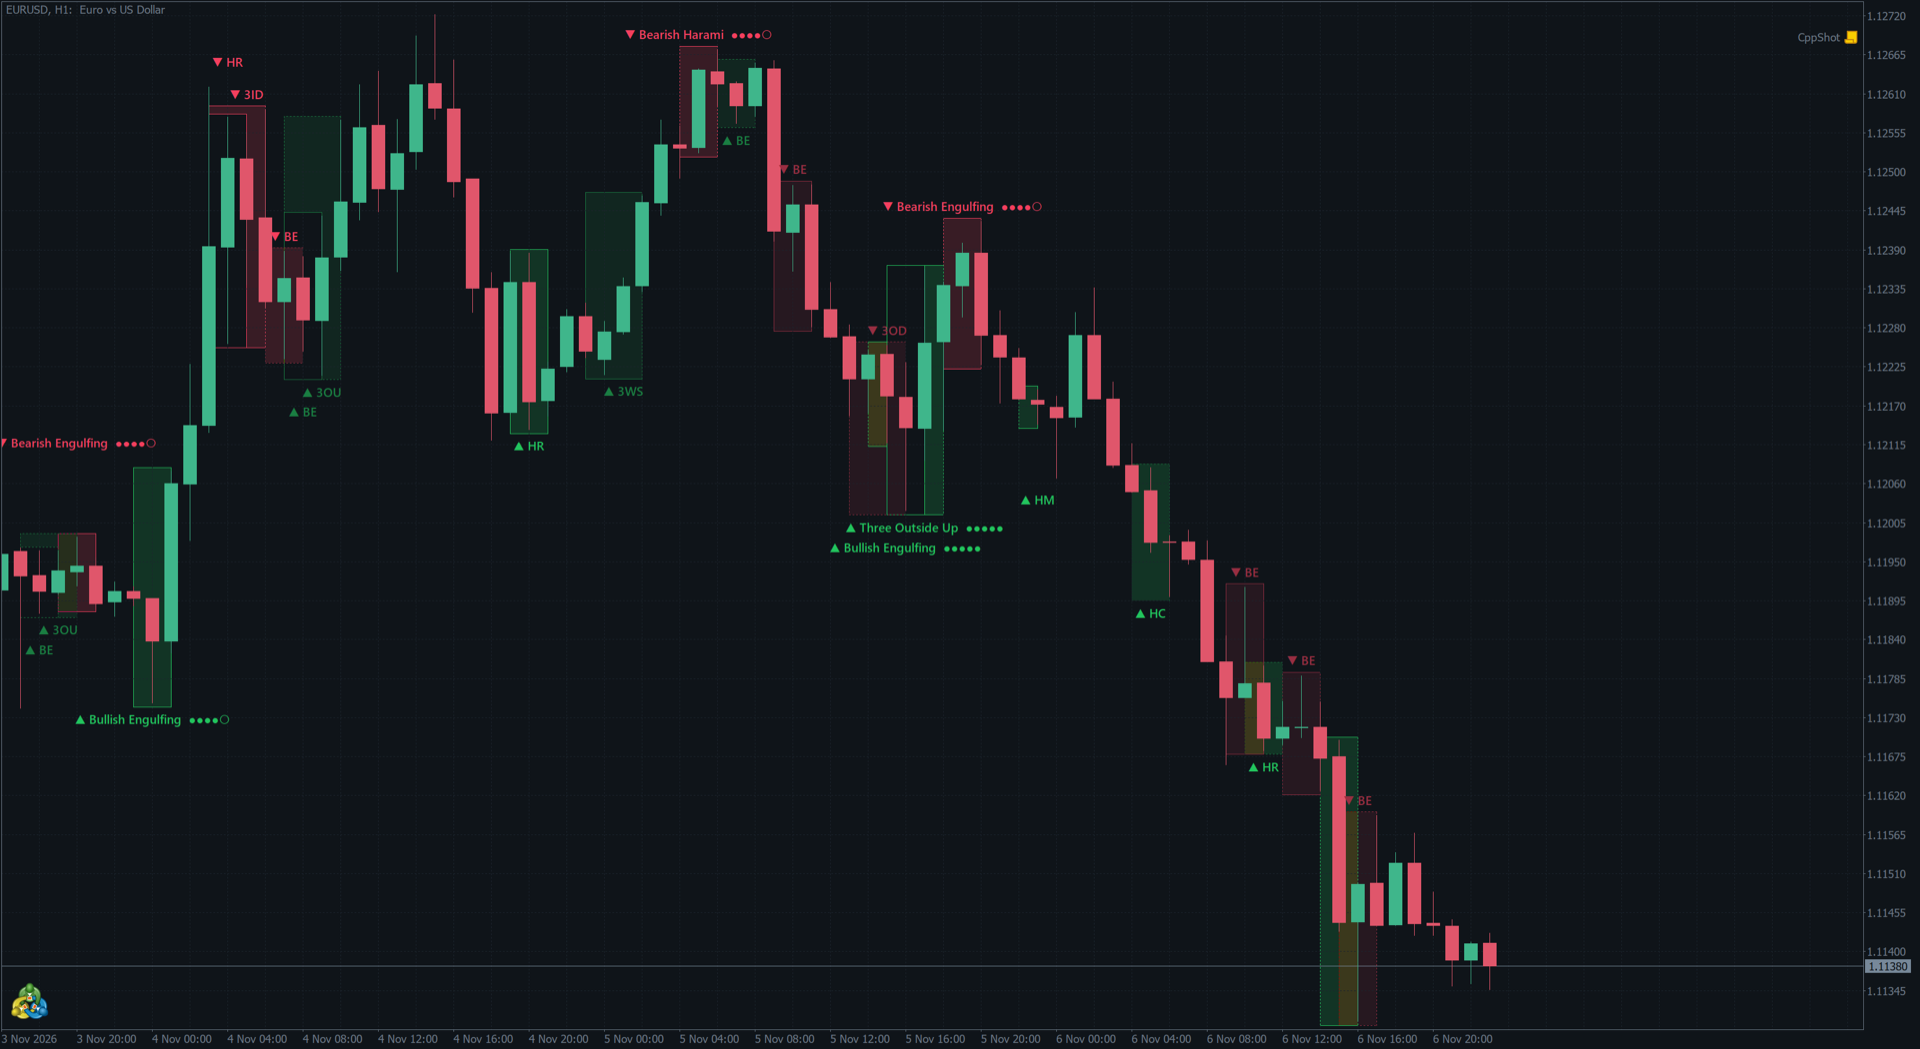
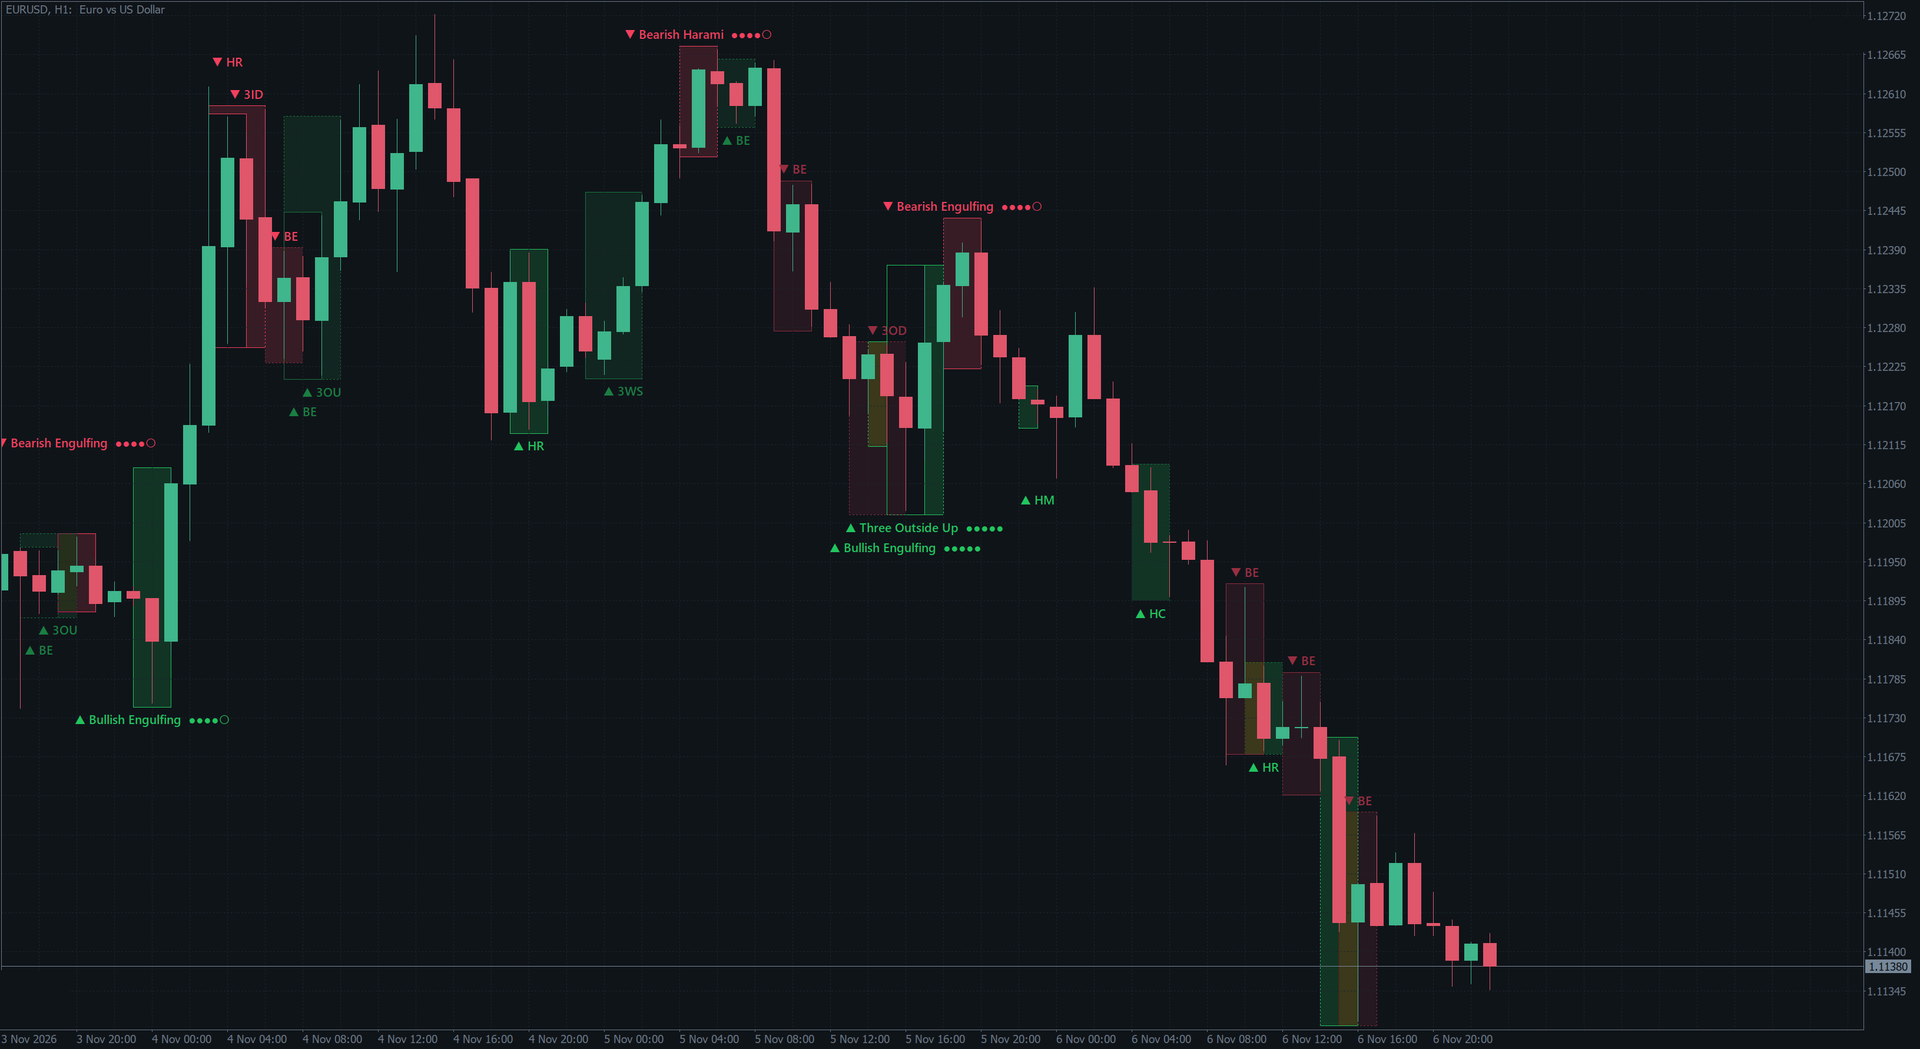
README: v1.00 features only, new screenshots; change log matches 1.00

diff --git a/README.md b/README.md
@@ -2,39 +2,53 @@
 
 Candlestick pattern indicators for MetaTrader 5, in two editions:
 
-- **CandlePattern Lite** (free): the classic candlestick patterns highlighted on your chart.
-- **CandlePattern Pro** (paid): all 63 patterns, a multi-market scanner, a signal feed, alerts and per-symbol pattern statistics.
+- **CandlePattern Lite** (free): 22 classic candlestick patterns highlighted on your chart.
+- **CandlePattern Pro** (paid): 63 patterns, a multi-market scanner, a signal feed, alerts and per-symbol pattern statistics.
 
 This repository is the public home of the project: the roadmap, the change log, and the place to send feature requests. It contains no source code. The indicators are distributed only through the MQL5 Market.
 
-![CandlePattern Pro on EURUSD H1](docs/images/pro_dark_scanner.png)
+![CandlePattern Pro: chart and scanner](docs/images/pro_dark_tab_scanner.png)
 
 ## Editions
+
+This table lists what version 1.00 contains today. Features that are still being built are on the [roadmap](ROADMAP.md).
 
 | | Lite (free) | Pro |
 |---|:---:|:---:|
 | Candlestick patterns | 22 classic patterns | 63 patterns |
 | Pattern zones and labels on the chart | ✓ | ✓ |
-| Strength score (1–5) from trend and swing context | ✓ | ✓ |
-| Confirmation status (waiting, confirmed, failed) | ✓ | ✓ |
-| Light and dark themes | ✓ | ✓ |
-| Pattern data your own Expert Advisor can read with `iCustom` (no EA included) | | ✓ |
-| On-chart toolbar (filters, labels, theme) | | ✓ |
-| Pattern card: context, confirmation, history on this symbol | | ✓ |
-| Preview of the pattern forming on the open candle | | ✓ |
-| Scanner: symbols × timeframes on one panel | | ✓ |
+| Strength score (1–5) from the prior move and swing high/low | ✓ | ✓ |
+| Confirmation status shown on each zone (waiting, confirmed, failed) | ✓ | ✓ |
+| Light and dark themes; chart colours restored when you remove the indicator | ✓ | ✓ |
+| On-chart toolbar: bullish / bearish / indecision filters, minimum strength, labels, zones, theme | | ✓ |
+| Pattern card: context, confirmation, history on this symbol, invalidation price | | ✓ |
+| Preview of a pattern forming on the open candle, marked "forming" | | ✓ |
+| Scanner: up to 12 symbols × 9 timeframes; click a cell to open that chart | | ✓ |
 | Signal feed with live status | | ✓ |
-| Pattern Lab: how each pattern behaved on this symbol | | ✓ |
-| Library: switch any pattern on or off | | ✓ |
-| Popup, push and email alerts | | ✓ |
+| Pattern Lab: how each pattern behaved on this symbol, next to a baseline for any candle | | ✓ |
+| Library: switch any of the 63 patterns on or off | | ✓ |
+| Alerts on candle close: popup, sound, push notification, email | | ✓ |
+| Pattern data your own Expert Advisor can read with `iCustom` (no EA included) | | ✓ |
 
-Pattern rules follow the open-source TA-Lib definitions, which are based on Steve Nison's *Japanese Candlestick Charting Techniques* and Gregory Morris's *Candlestick Charting Explained*. Tweezer Top and Tweezer Bottom follow Thomas Bulkowski's *Encyclopedia of Candlestick Charts*. Every pattern is detected on closed candles only, so a marked pattern never disappears later.
+Pattern rules follow the open-source TA-Lib definitions, which are based on Steve Nison's *Japanese Candlestick Charting Techniques* and Gregory Morris's *Candlestick Charting Explained*. Tweezer Top and Tweezer Bottom follow Thomas Bulkowski's *Encyclopedia of Candlestick Charts*.
+
+Patterns are marked on closed candles, so a marked pattern does not disappear later. The only exception is Pro's optional preview of the open candle, which is labelled "forming" and can change until the candle closes.
 
 Pattern statistics shown by the indicator describe past behaviour on your chart. They are not a forecast, and candlestick patterns are not trading advice.
 
-| Lite | Pro, Pattern Lab |
+## Screenshots
+
+| CandlePattern Lite, dark | CandlePattern Lite, light |
 |---|---|
-| ![Lite](docs/images/lite_dark.png) | ![Pattern Lab](docs/images/pro_light_lab.png) |
+| ![Lite dark](docs/images/lite_dark.png) | ![Lite light](docs/images/lite_light.png) |
+
+| Pro: pattern card | Pro: signal feed |
+|---|---|
+| ![Pattern card](docs/images/pro_dark_chart_card.png) | ![Signal feed](docs/images/pro_dark_tab_signals.png) |
+
+| Pro: Pattern Lab | Pro: Library |
+|---|---|
+| ![Pattern Lab](docs/images/pro_light_tab_lab.png) | ![Library](docs/images/pro_light_tab_library.png) |
 
 ## Get it
 
@@ -43,7 +57,7 @@ Pattern statistics shown by the indicator describe past behaviour on your chart.
 
 ## Roadmap
 
-See [ROADMAP.md](ROADMAP.md) for what is being built and what comes next. Many items come from what traders ask for in comments on similar indicators.
+See [ROADMAP.md](ROADMAP.md) for what is being built and what comes next. Features appear in the table above only once they are released.
 
 ## Request a feature
 
@@ -60,7 +74,7 @@ Only the project owner changes labels, the roadmap and releases.
 
 ## Contributions
 
-This is a closed-source project with a single maintainer. Pull requests are not accepted and are closed automatically. Please use a feature request instead; good ideas are credited in the change log with your permission.
+This is a closed-source project with a single maintainer. Pull requests are not accepted and are closed automatically. Please use a feature request instead.
 
 ## Support
 

diff --git a/CHANGELOG.md b/CHANGELOG.md
@@ -5,10 +5,10 @@
 ### CandlePattern Lite 1.00
 
 - 22 classic candlestick patterns: engulfing, harami, harami cross, piercing line, dark cloud cover, morning and evening star, morning and evening doji star, three white soldiers, three black crows, three inside up/down, three outside up/down, hammer, hanging man, inverted hammer, shooting star, doji, dragonfly doji, gravestone doji, tweezer top and bottom.
-- Pattern zones and labels on the chart, placed so they never cover candles or each other.
+- Pattern zones and labels on the chart; labels are placed in free space so they don't cover candles or each other.
 - Strength score (1–5) from the prior move and swing high/low context.
-- Confirmation status: waiting, confirmed, failed or unconfirmed.
-- Light and dark themes.
+- Confirmation status shown on each zone: waiting, confirmed, failed or unconfirmed.
+- Light and dark themes. The chart is restyled to match, and your own chart colours come back when you remove the indicator.
 
 ### CandlePattern Pro 1.00
 
@@ -18,9 +18,9 @@ Everything in Lite, plus:
 - Pattern data your own Expert Advisor can read through `iCustom`: direction, strength and pattern id (no EA included).
 - On-chart toolbar: bullish, bearish and indecision filters, minimum strength, label mode, zones, theme, panel.
 - Pattern card with context, confirmation, history on this symbol and the invalidation price.
-- Preview of the pattern forming on the open candle.
+- Optional preview of the pattern forming on the open candle, marked "forming".
 - Scanner for up to 12 symbols and 9 timeframes; click a cell to open that chart.
 - Signal feed with live status.
 - Pattern Lab: how often each pattern appeared on this symbol and how price moved afterwards, next to a baseline for any candle.
 - Library: switch any pattern on or off, saved for every chart.
-- Popup, push and email alerts.
+- Alerts when a candle closes: popup, sound, push notification and email.
